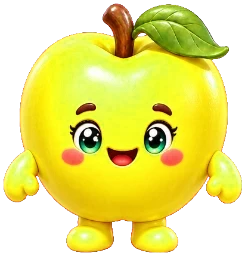
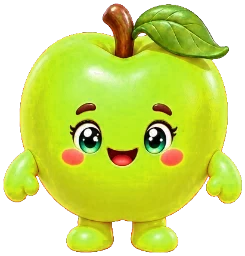
Fortune Neck: maçã verde não madura → amarelo → vermelho; fundo com céu, nuvens, sol, colinas e estrelas no alto

diff --git a/Fortune Neck.dc.html b/Fortune Neck.dc.html
@@ -36,7 +36,26 @@ a { color: #ffd257; text-decoration: none; } a:hover { color: #fff1b8; }
 
     <!-- cena -->
     <div onPointerDown="{{ swDown }}" onPointerUp="{{ swUp }}" style="position: absolute; left: 0; top: 86px; width: 453px; height: 546px; overflow: hidden; touch-action: none; border-top: 3px solid #f0b41f; border-bottom: 3px solid #f0b41f; box-shadow: 0 0 0 2px #5a1f05;">
-      <div style="position: absolute; left: 0; bottom: 0; width: 445px; height: 2200px; transform: translateY({{ camY }}px); transition: transform .55s cubic-bezier(.3,.7,.3,1); background: linear-gradient(0deg, #34124d 0%, #5a2a6e 12%, #a2507a 24%, #f08a5d 36%, #ffc77a 46%, #bfe8ff 62%, #7fcfff 82%, #52b8ff 100%);">
+      <div style="position: absolute; left: 0; bottom: 0; width: 445px; height: 2200px; transform: translateY({{ camY }}px); transition: transform .55s cubic-bezier(.3,.7,.3,1); background: linear-gradient(0deg, #ffd9a0 0%, #ffe9c2 6%, #c9ecff 18%, #8fd2ff 38%, #5aa6f0 58%, #3d6fd0 74%, #2a3f9a 87%, #1c1f5c 100%);">
+        <div style="position: absolute; left: 40px; bottom: 1980px; width: 6px; height: 6px; border-radius: 50%; background: #fff6d0; box-shadow: 0 0 9px #fff6d0;"></div>
+        <div style="position: absolute; left: 120px; bottom: 2080px; width: 4px; height: 4px; border-radius: 50%; background: #fff6d0; box-shadow: 0 0 6px #fff6d0;"></div>
+        <div style="position: absolute; left: 210px; bottom: 1900px; width: 5px; height: 5px; border-radius: 50%; background: #fff6d0; box-shadow: 0 0 7.5px #fff6d0;"></div>
+        <div style="position: absolute; left: 300px; bottom: 2120px; width: 6px; height: 6px; border-radius: 50%; background: #fff6d0; box-shadow: 0 0 9px #fff6d0;"></div>
+        <div style="position: absolute; left: 350px; bottom: 1960px; width: 4px; height: 4px; border-radius: 50%; background: #fff6d0; box-shadow: 0 0 6px #fff6d0;"></div>
+        <div style="position: absolute; left: 80px; bottom: 1820px; width: 4px; height: 4px; border-radius: 50%; background: #fff6d0; box-shadow: 0 0 6px #fff6d0;"></div>
+        <div style="position: absolute; left: 260px; bottom: 1780px; width: 5px; height: 5px; border-radius: 50%; background: #fff6d0; box-shadow: 0 0 7.5px #fff6d0;"></div>
+        <div style="position: absolute; left: 160px; bottom: 2010px; width: 4px; height: 4px; border-radius: 50%; background: #fff6d0; box-shadow: 0 0 6px #fff6d0;"></div>
+        <div style="position: absolute; left: 30px; bottom: 1720px; width: 4px; height: 4px; border-radius: 50%; background: #fff6d0; box-shadow: 0 0 6px #fff6d0;"></div>
+        <div style="position: absolute; left: 330px; bottom: 1700px; width: 4px; height: 4px; border-radius: 50%; background: #fff6d0; box-shadow: 0 0 6px #fff6d0;"></div>
+        <div style="position: absolute; left: 30px; bottom: 120px; width: 150px; height: 150px; border-radius: 50%; background: radial-gradient(circle, #fff8d6 0%, #ffe27a 38%, rgba(255,210,87,.45) 52%, rgba(255,210,87,0) 72%);"></div>
+        <div style="position: absolute; left: -20px; bottom: 330px; width: 150px; height: 63px; opacity: 0.95; background: radial-gradient(closest-side at 30% 65%, #fff 0 92%, transparent 100%), radial-gradient(closest-side at 58% 45%, #fff 0 92%, transparent 100%), radial-gradient(closest-side at 80% 68%, #fff 0 92%, transparent 100%); background-size: 46% 80%, 52% 100%, 40% 72%; background-repeat: no-repeat; background-position: 0 100%, 40% 0, 100% 100%; filter: drop-shadow(0 4px 0 rgba(120,150,220,.35));"></div>
+        <div style="position: absolute; left: 150px; bottom: 520px; width: 120px; height: 50px; opacity: 0.85; background: radial-gradient(closest-side at 30% 65%, #fff 0 92%, transparent 100%), radial-gradient(closest-side at 58% 45%, #fff 0 92%, transparent 100%), radial-gradient(closest-side at 80% 68%, #fff 0 92%, transparent 100%); background-size: 46% 80%, 52% 100%, 40% 72%; background-repeat: no-repeat; background-position: 0 100%, 40% 0, 100% 100%; filter: drop-shadow(0 4px 0 rgba(120,150,220,.35));"></div>
+        <div style="position: absolute; left: 10px; bottom: 760px; width: 170px; height: 71px; opacity: 0.9; background: radial-gradient(closest-side at 30% 65%, #fff 0 92%, transparent 100%), radial-gradient(closest-side at 58% 45%, #fff 0 92%, transparent 100%), radial-gradient(closest-side at 80% 68%, #fff 0 92%, transparent 100%); background-size: 46% 80%, 52% 100%, 40% 72%; background-repeat: no-repeat; background-position: 0 100%, 40% 0, 100% 100%; filter: drop-shadow(0 4px 0 rgba(120,150,220,.35));"></div>
+        <div style="position: absolute; left: 170px; bottom: 1010px; width: 130px; height: 55px; opacity: 0.8; background: radial-gradient(closest-side at 30% 65%, #fff 0 92%, transparent 100%), radial-gradient(closest-side at 58% 45%, #fff 0 92%, transparent 100%), radial-gradient(closest-side at 80% 68%, #fff 0 92%, transparent 100%); background-size: 46% 80%, 52% 100%, 40% 72%; background-repeat: no-repeat; background-position: 0 100%, 40% 0, 100% 100%; filter: drop-shadow(0 4px 0 rgba(120,150,220,.35));"></div>
+        <div style="position: absolute; left: -30px; bottom: 1260px; width: 160px; height: 67px; opacity: 0.75; background: radial-gradient(closest-side at 30% 65%, #fff 0 92%, transparent 100%), radial-gradient(closest-side at 58% 45%, #fff 0 92%, transparent 100%), radial-gradient(closest-side at 80% 68%, #fff 0 92%, transparent 100%); background-size: 46% 80%, 52% 100%, 40% 72%; background-repeat: no-repeat; background-position: 0 100%, 40% 0, 100% 100%; filter: drop-shadow(0 4px 0 rgba(120,150,220,.35));"></div>
+        <div style="position: absolute; left: 140px; bottom: 1480px; width: 120px; height: 50px; opacity: 0.6; background: radial-gradient(closest-side at 30% 65%, #fff 0 92%, transparent 100%), radial-gradient(closest-side at 58% 45%, #fff 0 92%, transparent 100%), radial-gradient(closest-side at 80% 68%, #fff 0 92%, transparent 100%); background-size: 46% 80%, 52% 100%, 40% 72%; background-repeat: no-repeat; background-position: 0 100%, 40% 0, 100% 100%; filter: drop-shadow(0 4px 0 rgba(120,150,220,.35));"></div>
+        <div style="position: absolute; left: -60px; right: -60px; bottom: 30px; height: 120px; border-radius: 50% 50% 0 0 / 100% 100% 0 0; background: linear-gradient(180deg, #8fd47a 0%, #5fae55 100%);"></div>
+        <div style="position: absolute; left: 160px; right: -120px; bottom: 30px; height: 80px; border-radius: 50% 50% 0 0 / 100% 100% 0 0; background: linear-gradient(180deg, #6cc35a 0%, #3f9440 100%);"></div>
         <div style="position: absolute; left: 0; right: 0; bottom: 0; height: 46px; background: linear-gradient(180deg, #4fbf4a 0%, #2f8f34 40%, #6b3a1a 41%, #4a260f 100%);"></div>
         <div style="position: absolute; left: 392px; bottom: 30px; width: 64px; height: 2100px; border-radius: 32px 32px 0 0; background: linear-gradient(90deg, #5a2a0e 0%, #9a5422 40%, #b8692c 55%, #6b3412 100%); filter: saturate({{ trunkSat }});"></div>
         <sc-for list="{{ floors }}" as="f" hint-placeholder-count="20">
